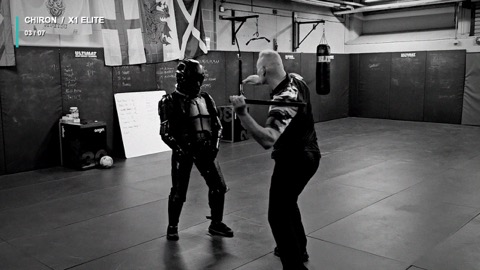
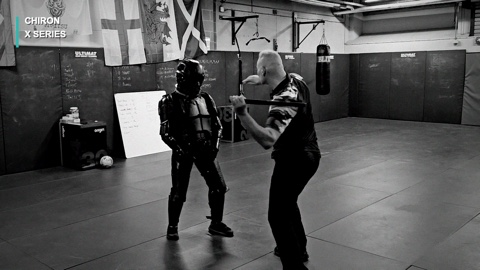
Update video thumbnail labels and enlarge armour viewer

Changed region(s): [[0.0312, 0.0593, 0.2188, 0.1481], [0.7188, 0.0, 0.75, 0.0296], [0.625, 0.0593, 0.6562, 0.0889]]

diff --git a/site/videos/index.html b/site/videos/index.html
@@ -48,39 +48,39 @@
     <section class="film-library" id="all-films" aria-label="Chiron video gallery">
       <article class="featured-film" id="featured" aria-labelledby="featured-title">
         <div class="featured-player" id="featured-player" aria-busy="false">
-          <button class="player-poster" type="button" aria-label="Play Chiron-X1 Greatest Hits – EP 1"><img src="../assets/video-thumbnails/greatest-hits.jpg" alt="" fetchpriority="high" srcset="../assets/video-thumbnails/greatest-hits-480.jpg 480w, ../assets/video-thumbnails/greatest-hits.jpg 1280w" sizes="100vw"><span class="poster-play"><svg viewBox="0 0 24 24" aria-hidden="true"><path d="m9 5 10 7-10 7z"/></svg><span>Play video</span></span></button>
+          <button class="player-poster" type="button" aria-label="Play Chiron-X1 Greatest Hits – EP 1"><img src="../assets/video-thumbnails/greatest-hits.jpg?v=x-series-20" alt="" fetchpriority="high" srcset="../assets/video-thumbnails/greatest-hits-480.jpg?v=x-series-20 480w, ../assets/video-thumbnails/greatest-hits.jpg?v=x-series-20 1280w" sizes="100vw"><span class="poster-play"><svg viewBox="0 0 24 24" aria-hidden="true"><path d="m9 5 10 7-10 7z"/></svg><span>Play video</span></span></button>
         </div>
         <div class="featured-meta"><div><p class="eyebrow"><span class="marker"></span> <span id="player-label">Selected video</span></p><h2 id="featured-title">Chiron-X1 Greatest Hits – EP 1</h2></div></div>
         <p class="player-status" role="status" aria-live="polite"></p>
       </article>
       <div class="library-heading"><h2 class="eyebrow"><span class="marker"></span> All videos <span class="film-count">07</span></h2><p>A field library of the X1 platform at work — compilations, capability examples and weapons-integration training films.</p></div>
       <div class="film-grid" role="group" aria-label="Choose a video">
-        <button class="film-choice" type="button" data-video="greatest-hits" data-title="Chiron-X1 Greatest Hits – EP 1" data-embed="https://player.vimeo.com/video/1114585480?badge=0&amp;autopause=0&amp;player_id=0&amp;app_id=58479" data-poster="../assets/video-thumbnails/greatest-hits.jpg" aria-pressed="true" aria-controls="featured-player">
-          <span class="film-thumbnail"><img src="../assets/video-thumbnails/greatest-hits.jpg" alt="" loading="lazy" decoding="async" srcset="../assets/video-thumbnails/greatest-hits-480.jpg 480w, ../assets/video-thumbnails/greatest-hits.jpg 1280w" sizes="(max-width: 560px) calc(100vw - 40px), (max-width: 1100px) 50vw, 25vw"><span class="thumbnail-play"><svg viewBox="0 0 24 24" aria-hidden="true"><path d="m9 5 10 7-10 7z"/></svg></span><span class="film-selected">Selected</span></span>
+        <button class="film-choice" type="button" data-video="greatest-hits" data-title="Chiron-X1 Greatest Hits – EP 1" data-embed="https://player.vimeo.com/video/1114585480?badge=0&amp;autopause=0&amp;player_id=0&amp;app_id=58479" data-poster="../assets/video-thumbnails/greatest-hits.jpg?v=x-series-20" aria-pressed="true" aria-controls="featured-player">
+          <span class="film-thumbnail"><img src="../assets/video-thumbnails/greatest-hits.jpg?v=x-series-20" alt="" loading="lazy" decoding="async" srcset="../assets/video-thumbnails/greatest-hits-480.jpg?v=x-series-20 480w, ../assets/video-thumbnails/greatest-hits.jpg?v=x-series-20 1280w" sizes="(max-width: 560px) calc(100vw - 40px), (max-width: 1100px) 50vw, 25vw"><span class="thumbnail-play"><svg viewBox="0 0 24 24" aria-hidden="true"><path d="m9 5 10 7-10 7z"/></svg></span><span class="film-selected">Selected</span></span>
           <span class="film-choice-title">Chiron-X1 Greatest Hits – EP 1</span>
         </button>
-        <button class="film-choice" type="button" data-video="nltm" data-title="Chiron-X1 - CQC &amp; NLTM" data-embed="https://player.vimeo.com/video/1100202372?badge=0&amp;autopause=0&amp;player_id=0&amp;app_id=58479" data-poster="../assets/video-thumbnails/cqc-nltm.jpg" aria-pressed="false" aria-controls="featured-player">
-          <span class="film-thumbnail"><img src="../assets/video-thumbnails/cqc-nltm.jpg" alt="" loading="lazy" decoding="async" srcset="../assets/video-thumbnails/cqc-nltm-480.jpg 480w, ../assets/video-thumbnails/cqc-nltm.jpg 1280w" sizes="(max-width: 560px) calc(100vw - 40px), (max-width: 1100px) 50vw, 25vw"><span class="thumbnail-play"><svg viewBox="0 0 24 24" aria-hidden="true"><path d="m9 5 10 7-10 7z"/></svg></span><span class="film-selected">Selected</span></span>
+        <button class="film-choice" type="button" data-video="nltm" data-title="Chiron-X1 - CQC &amp; NLTM" data-embed="https://player.vimeo.com/video/1100202372?badge=0&amp;autopause=0&amp;player_id=0&amp;app_id=58479" data-poster="../assets/video-thumbnails/cqc-nltm.jpg?v=x-series-20" aria-pressed="false" aria-controls="featured-player">
+          <span class="film-thumbnail"><img src="../assets/video-thumbnails/cqc-nltm.jpg?v=x-series-20" alt="" loading="lazy" decoding="async" srcset="../assets/video-thumbnails/cqc-nltm-480.jpg?v=x-series-20 480w, ../assets/video-thumbnails/cqc-nltm.jpg?v=x-series-20 1280w" sizes="(max-width: 560px) calc(100vw - 40px), (max-width: 1100px) 50vw, 25vw"><span class="thumbnail-play"><svg viewBox="0 0 24 24" aria-hidden="true"><path d="m9 5 10 7-10 7z"/></svg></span><span class="film-selected">Selected</span></span>
           <span class="film-choice-title">Chiron-X1 - CQC &amp; NLTM</span>
         </button>
-        <button class="film-choice" type="button" data-video="benefits" data-title="Chiron-X1 Elite - Unique Benefits Explained" data-embed="https://player.vimeo.com/video/1035430907?badge=0&amp;autopause=0&amp;player_id=0&amp;app_id=58479" data-poster="../assets/video-thumbnails/unique-benefits.jpg" aria-pressed="false" aria-controls="featured-player">
-          <span class="film-thumbnail"><img src="../assets/video-thumbnails/unique-benefits.jpg" alt="" loading="lazy" decoding="async" srcset="../assets/video-thumbnails/unique-benefits-480.jpg 480w, ../assets/video-thumbnails/unique-benefits.jpg 1280w" sizes="(max-width: 560px) calc(100vw - 40px), (max-width: 1100px) 50vw, 25vw"><span class="thumbnail-play"><svg viewBox="0 0 24 24" aria-hidden="true"><path d="m9 5 10 7-10 7z"/></svg></span><span class="film-selected">Selected</span></span>
+        <button class="film-choice" type="button" data-video="benefits" data-title="Chiron-X1 Elite - Unique Benefits Explained" data-embed="https://player.vimeo.com/video/1035430907?badge=0&amp;autopause=0&amp;player_id=0&amp;app_id=58479" data-poster="../assets/video-thumbnails/unique-benefits.jpg?v=x-series-20" aria-pressed="false" aria-controls="featured-player">
+          <span class="film-thumbnail"><img src="../assets/video-thumbnails/unique-benefits.jpg?v=x-series-20" alt="" loading="lazy" decoding="async" srcset="../assets/video-thumbnails/unique-benefits-480.jpg?v=x-series-20 480w, ../assets/video-thumbnails/unique-benefits.jpg?v=x-series-20 1280w" sizes="(max-width: 560px) calc(100vw - 40px), (max-width: 1100px) 50vw, 25vw"><span class="thumbnail-play"><svg viewBox="0 0 24 24" aria-hidden="true"><path d="m9 5 10 7-10 7z"/></svg></span><span class="film-selected">Selected</span></span>
           <span class="film-choice-title">Chiron-X1 Elite - Unique Benefits Explained</span>
         </button>
-        <button class="film-choice" type="button" data-video="baton" data-title="Chiron-X1 Baton Training" data-embed="https://player.vimeo.com/video/1176062651?badge=0&amp;autopause=0&amp;player_id=0&amp;app_id=58479" data-poster="../assets/video-thumbnails/baton-training.jpg" aria-pressed="false" aria-controls="featured-player">
-          <span class="film-thumbnail"><img src="../assets/video-thumbnails/baton-training.jpg" alt="" loading="lazy" decoding="async" srcset="../assets/video-thumbnails/baton-training-480.jpg 480w, ../assets/video-thumbnails/baton-training.jpg 1280w" sizes="(max-width: 560px) calc(100vw - 40px), (max-width: 1100px) 50vw, 25vw"><span class="thumbnail-play"><svg viewBox="0 0 24 24" aria-hidden="true"><path d="m9 5 10 7-10 7z"/></svg></span><span class="film-selected">Selected</span></span>
+        <button class="film-choice" type="button" data-video="baton" data-title="Chiron-X1 Baton Training" data-embed="https://player.vimeo.com/video/1176062651?badge=0&amp;autopause=0&amp;player_id=0&amp;app_id=58479" data-poster="../assets/video-thumbnails/baton-training.jpg?v=x-series-20" aria-pressed="false" aria-controls="featured-player">
+          <span class="film-thumbnail"><img src="../assets/video-thumbnails/baton-training.jpg?v=x-series-20" alt="" loading="lazy" decoding="async" srcset="../assets/video-thumbnails/baton-training-480.jpg?v=x-series-20 480w, ../assets/video-thumbnails/baton-training.jpg?v=x-series-20 1280w" sizes="(max-width: 560px) calc(100vw - 40px), (max-width: 1100px) 50vw, 25vw"><span class="thumbnail-play"><svg viewBox="0 0 24 24" aria-hidden="true"><path d="m9 5 10 7-10 7z"/></svg></span><span class="film-selected">Selected</span></span>
           <span class="film-choice-title">Chiron-X1 Baton Training</span>
         </button>
-        <button class="film-choice" type="button" data-video="pistol" data-title="Chiron-X1 Pistol Training" data-embed="https://player.vimeo.com/video/1176066700?badge=0&amp;autopause=0&amp;player_id=0&amp;app_id=58479" data-poster="../assets/video-thumbnails/pistol-training.jpg" aria-pressed="false" aria-controls="featured-player">
-          <span class="film-thumbnail"><img src="../assets/video-thumbnails/pistol-training.jpg" alt="" loading="lazy" decoding="async" srcset="../assets/video-thumbnails/pistol-training-480.jpg 480w, ../assets/video-thumbnails/pistol-training.jpg 1280w" sizes="(max-width: 560px) calc(100vw - 40px), (max-width: 1100px) 50vw, 25vw"><span class="thumbnail-play"><svg viewBox="0 0 24 24" aria-hidden="true"><path d="m9 5 10 7-10 7z"/></svg></span><span class="film-selected">Selected</span></span>
+        <button class="film-choice" type="button" data-video="pistol" data-title="Chiron-X1 Pistol Training" data-embed="https://player.vimeo.com/video/1176066700?badge=0&amp;autopause=0&amp;player_id=0&amp;app_id=58479" data-poster="../assets/video-thumbnails/pistol-training.jpg?v=x-series-20" aria-pressed="false" aria-controls="featured-player">
+          <span class="film-thumbnail"><img src="../assets/video-thumbnails/pistol-training.jpg?v=x-series-20" alt="" loading="lazy" decoding="async" srcset="../assets/video-thumbnails/pistol-training-480.jpg?v=x-series-20 480w, ../assets/video-thumbnails/pistol-training.jpg?v=x-series-20 1280w" sizes="(max-width: 560px) calc(100vw - 40px), (max-width: 1100px) 50vw, 25vw"><span class="thumbnail-play"><svg viewBox="0 0 24 24" aria-hidden="true"><path d="m9 5 10 7-10 7z"/></svg></span><span class="film-selected">Selected</span></span>
           <span class="film-choice-title">Chiron-X1 Pistol Training</span>
         </button>
-        <button class="film-choice" type="button" data-video="riot-shield" data-title="Chiron-X1 Riot Shield Training" data-embed="https://player.vimeo.com/video/1176069140?badge=0&amp;autopause=0&amp;player_id=0&amp;app_id=58479" data-poster="../assets/video-thumbnails/riot-shield.jpg" aria-pressed="false" aria-controls="featured-player">
-          <span class="film-thumbnail"><img src="../assets/video-thumbnails/riot-shield.jpg" alt="" loading="lazy" decoding="async" srcset="../assets/video-thumbnails/riot-shield-480.jpg 480w, ../assets/video-thumbnails/riot-shield.jpg 1280w" sizes="(max-width: 560px) calc(100vw - 40px), (max-width: 1100px) 50vw, 25vw"><span class="thumbnail-play"><svg viewBox="0 0 24 24" aria-hidden="true"><path d="m9 5 10 7-10 7z"/></svg></span><span class="film-selected">Selected</span></span>
+        <button class="film-choice" type="button" data-video="riot-shield" data-title="Chiron-X1 Riot Shield Training" data-embed="https://player.vimeo.com/video/1176069140?badge=0&amp;autopause=0&amp;player_id=0&amp;app_id=58479" data-poster="../assets/video-thumbnails/riot-shield.jpg?v=x-series-20" aria-pressed="false" aria-controls="featured-player">
+          <span class="film-thumbnail"><img src="../assets/video-thumbnails/riot-shield.jpg?v=x-series-20" alt="" loading="lazy" decoding="async" srcset="../assets/video-thumbnails/riot-shield-480.jpg?v=x-series-20 480w, ../assets/video-thumbnails/riot-shield.jpg?v=x-series-20 1280w" sizes="(max-width: 560px) calc(100vw - 40px), (max-width: 1100px) 50vw, 25vw"><span class="thumbnail-play"><svg viewBox="0 0 24 24" aria-hidden="true"><path d="m9 5 10 7-10 7z"/></svg></span><span class="film-selected">Selected</span></span>
           <span class="film-choice-title">Chiron-X1 Riot Shield Training</span>
         </button>
-        <button class="film-choice" type="button" data-video="testimonials" data-title="Chiron-X1 - US Testimonials" data-embed="https://player.vimeo.com/video/1035437543?badge=0&amp;autopause=0&amp;player_id=0&amp;app_id=58479" data-poster="../assets/video-thumbnails/us-testimonials.jpg" aria-pressed="false" aria-controls="featured-player">
-          <span class="film-thumbnail"><img src="../assets/video-thumbnails/us-testimonials.jpg" alt="" loading="lazy" decoding="async" srcset="../assets/video-thumbnails/us-testimonials-480.jpg 480w, ../assets/video-thumbnails/us-testimonials.jpg 1280w" sizes="(max-width: 560px) calc(100vw - 40px), (max-width: 1100px) 50vw, 25vw"><span class="thumbnail-play"><svg viewBox="0 0 24 24" aria-hidden="true"><path d="m9 5 10 7-10 7z"/></svg></span><span class="film-selected">Selected</span></span>
+        <button class="film-choice" type="button" data-video="testimonials" data-title="Chiron-X1 - US Testimonials" data-embed="https://player.vimeo.com/video/1035437543?badge=0&amp;autopause=0&amp;player_id=0&amp;app_id=58479" data-poster="../assets/video-thumbnails/us-testimonials.jpg?v=x-series-20" aria-pressed="false" aria-controls="featured-player">
+          <span class="film-thumbnail"><img src="../assets/video-thumbnails/us-testimonials.jpg?v=x-series-20" alt="" loading="lazy" decoding="async" srcset="../assets/video-thumbnails/us-testimonials-480.jpg?v=x-series-20 480w, ../assets/video-thumbnails/us-testimonials.jpg?v=x-series-20 1280w" sizes="(max-width: 560px) calc(100vw - 40px), (max-width: 1100px) 50vw, 25vw"><span class="thumbnail-play"><svg viewBox="0 0 24 24" aria-hidden="true"><path d="m9 5 10 7-10 7z"/></svg></span><span class="film-selected">Selected</span></span>
           <span class="film-choice-title">Chiron-X1 - US Testimonials</span>
         </button>
       </div>

diff --git a/site/index.html b/site/index.html
@@ -82,9 +82,9 @@
       <section class="footage section" id="footage">
         <div class="footage-head"><div><div class="section-kicker"><span></span>Videos</div><h2>See it in action</h2></div><a class="button button--outline ui-button ui-button--secondary" href="videos/">Browse videos <span aria-hidden="true"><svg class="ui-icon ui-icon--arrow" viewBox="0 0 24 24" fill="none" stroke="currentColor" stroke-width="1.8" stroke-linecap="round" stroke-linejoin="round" aria-hidden="true" focusable="false"><path d="M7 17 17 7M7 7h10v10"/></svg></span></a></div>
         <div class="video-grid">
-          <a class="video-card" href="videos/?video=greatest-hits#featured" aria-label="Play Chiron-X1 Greatest Hits – EP 1 on the video page"><span>VIDEO 01</span><figure><img src="assets/video-thumbnails/greatest-hits.jpg" loading="lazy" decoding="async" alt="" srcset="assets/video-thumbnails/greatest-hits-480.jpg 480w, assets/video-thumbnails/greatest-hits.jpg 1280w" sizes="(max-width: 800px) 100vw, 50vw"><i class="video-play" aria-hidden="true"><svg viewBox="0 0 24 24"><path d="m9 6 8 6-8 6z"/></svg></i></figure><div><h3>Chiron-X1 Greatest Hits – EP 1</h3><b>PLAY VIDEO <svg class="ui-icon ui-icon--arrow" viewBox="0 0 24 24" fill="none" stroke="currentColor" stroke-width="1.8" stroke-linecap="round" stroke-linejoin="round" aria-hidden="true" focusable="false"><path d="M7 17 17 7M7 7h10v10"/></svg></b></div></a>
-          <a class="video-card" href="videos/?video=nltm#all-films" aria-label="Play Chiron-X1 - CQC &amp; NLTM on the video page"><span>VIDEO 02</span><figure><img src="assets/video-thumbnails/cqc-nltm.jpg" loading="lazy" decoding="async" alt="" srcset="assets/video-thumbnails/cqc-nltm-480.jpg 480w, assets/video-thumbnails/cqc-nltm.jpg 1280w" sizes="(max-width: 800px) 100vw, 50vw"><i class="video-play" aria-hidden="true"><svg viewBox="0 0 24 24"><path d="m9 6 8 6-8 6z"/></svg></i></figure><div><h3>Chiron-X1 - CQC &amp; NLTM</h3><b>PLAY VIDEO <svg class="ui-icon ui-icon--arrow" viewBox="0 0 24 24" fill="none" stroke="currentColor" stroke-width="1.8" stroke-linecap="round" stroke-linejoin="round" aria-hidden="true" focusable="false"><path d="M7 17 17 7M7 7h10v10"/></svg></b></div></a>
-          <a class="video-card" href="videos/?video=benefits#all-films" aria-label="Play Chiron-X1 Elite - Unique Benefits Explained on the video page"><span>VIDEO 03</span><figure><img src="assets/video-thumbnails/unique-benefits.jpg" loading="lazy" decoding="async" alt="" srcset="assets/video-thumbnails/unique-benefits-480.jpg 480w, assets/video-thumbnails/unique-benefits.jpg 1280w" sizes="(max-width: 800px) 100vw, 50vw"><i class="video-play" aria-hidden="true"><svg viewBox="0 0 24 24"><path d="m9 6 8 6-8 6z"/></svg></i></figure><div><h3>Chiron-X1 Elite - Unique Benefits Explained</h3><b>PLAY VIDEO <svg class="ui-icon ui-icon--arrow" viewBox="0 0 24 24" fill="none" stroke="currentColor" stroke-width="1.8" stroke-linecap="round" stroke-linejoin="round" aria-hidden="true" focusable="false"><path d="M7 17 17 7M7 7h10v10"/></svg></b></div></a>
+          <a class="video-card" href="videos/?video=greatest-hits#featured" aria-label="Play Chiron-X1 Greatest Hits – EP 1 on the video page"><span>VIDEO 01</span><figure><img src="assets/video-thumbnails/greatest-hits.jpg?v=x-series-20" loading="lazy" decoding="async" alt="" srcset="assets/video-thumbnails/greatest-hits-480.jpg?v=x-series-20 480w, assets/video-thumbnails/greatest-hits.jpg?v=x-series-20 1280w" sizes="(max-width: 800px) 100vw, 50vw"><i class="video-play" aria-hidden="true"><svg viewBox="0 0 24 24"><path d="m9 6 8 6-8 6z"/></svg></i></figure><div><h3>Chiron-X1 Greatest Hits – EP 1</h3><b>PLAY VIDEO <svg class="ui-icon ui-icon--arrow" viewBox="0 0 24 24" fill="none" stroke="currentColor" stroke-width="1.8" stroke-linecap="round" stroke-linejoin="round" aria-hidden="true" focusable="false"><path d="M7 17 17 7M7 7h10v10"/></svg></b></div></a>
+          <a class="video-card" href="videos/?video=nltm#all-films" aria-label="Play Chiron-X1 - CQC &amp; NLTM on the video page"><span>VIDEO 02</span><figure><img src="assets/video-thumbnails/cqc-nltm.jpg?v=x-series-20" loading="lazy" decoding="async" alt="" srcset="assets/video-thumbnails/cqc-nltm-480.jpg?v=x-series-20 480w, assets/video-thumbnails/cqc-nltm.jpg?v=x-series-20 1280w" sizes="(max-width: 800px) 100vw, 50vw"><i class="video-play" aria-hidden="true"><svg viewBox="0 0 24 24"><path d="m9 6 8 6-8 6z"/></svg></i></figure><div><h3>Chiron-X1 - CQC &amp; NLTM</h3><b>PLAY VIDEO <svg class="ui-icon ui-icon--arrow" viewBox="0 0 24 24" fill="none" stroke="currentColor" stroke-width="1.8" stroke-linecap="round" stroke-linejoin="round" aria-hidden="true" focusable="false"><path d="M7 17 17 7M7 7h10v10"/></svg></b></div></a>
+          <a class="video-card" href="videos/?video=benefits#all-films" aria-label="Play Chiron-X1 Elite - Unique Benefits Explained on the video page"><span>VIDEO 03</span><figure><img src="assets/video-thumbnails/unique-benefits.jpg?v=x-series-20" loading="lazy" decoding="async" alt="" srcset="assets/video-thumbnails/unique-benefits-480.jpg?v=x-series-20 480w, assets/video-thumbnails/unique-benefits.jpg?v=x-series-20 1280w" sizes="(max-width: 800px) 100vw, 50vw"><i class="video-play" aria-hidden="true"><svg viewBox="0 0 24 24"><path d="m9 6 8 6-8 6z"/></svg></i></figure><div><h3>Chiron-X1 Elite - Unique Benefits Explained</h3><b>PLAY VIDEO <svg class="ui-icon ui-icon--arrow" viewBox="0 0 24 24" fill="none" stroke="currentColor" stroke-width="1.8" stroke-linecap="round" stroke-linejoin="round" aria-hidden="true" focusable="false"><path d="M7 17 17 7M7 7h10v10"/></svg></b></div></a>
         </div>
       </section>
 

diff --git a/site/products/spin-viewer.css b/site/products/spin-viewer.css
@@ -3,7 +3,7 @@
 .spin-stage{position:absolute;inset:60px 0 72px;touch-action:pan-y;cursor:grab;user-select:none;-webkit-user-select:none}
 .spin-stage:focus-visible{outline:2px solid var(--accent);outline-offset:-4px}
 .spin-viewer.is-dragging .spin-stage{cursor:grabbing}
-.products-elite-image.spin-viewer img{padding:20px;width:100%;height:100%;object-fit:contain;filter:none;transform:none;transition:none;pointer-events:none}
+.products-elite-image.spin-viewer img{padding:0;width:100%;height:100%;object-fit:contain;filter:none;transform:scale(1.04) translateY(-1.5%);transition:none;pointer-events:none}
 .spin-controls{position:absolute;bottom:0;left:0;right:0;height:72px;padding:14px 24px;border-top:1px solid var(--products-rule);background:#000}
 .spin-controls[hidden],.spin-actions[hidden]{display:none}
 .spin-actions{position:absolute;top:16px;left:0;right:0;display:flex;justify-content:center;gap:6px}
@@ -21,7 +21,7 @@
 .spin-viewer[data-state=error] .spin-status{position:static;display:block;width:auto;height:auto;margin:0;clip:auto;white-space:normal;font:12px/1.4 Aspekta,Arial,sans-serif;color:var(--paper)}
 .spin-viewer[data-state=error] .spin-range{display:none}
 @media(max-width:1000px){.spin-controls{padding-inline:16px}}
-@media(max-width:560px){.products-elite-image.spin-viewer{aspect-ratio:3/4;min-height:540px}.products-elite-image.spin-viewer img{padding:12px}}
+@media(max-width:560px){.products-elite-image.spin-viewer{aspect-ratio:3/4;min-height:540px}}
 @media(pointer:coarse){.spin-actions button{height:44px}.spin-stage{top:72px}}
 
 /* First-use affordance beside the model, dismissed on interaction. */

diff --git a/site/products/index.html b/site/products/index.html
@@ -17,7 +17,7 @@
   <script defer src="../shared/interior-motion.js"></script>
   <script defer src="script.js"></script>
   <link rel="stylesheet" href="../shared/responsive.css?v=accent-12">
-  <link rel="stylesheet" href="spin-viewer.css?v=accent-12">
+  <link rel="stylesheet" href="spin-viewer.css?v=armour-size-13">
   <script defer src="spin-viewer.js?v=4"></script>
   <link rel="icon" href="../assets/icons/favicon.ico" sizes="16x16 32x32 48x48">
   <link rel="icon" type="image/png" href="../assets/icons/favicon-32.png" sizes="32x32">
